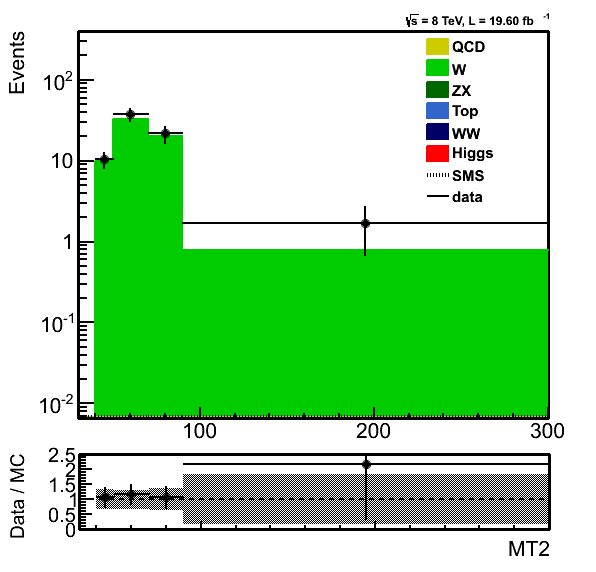
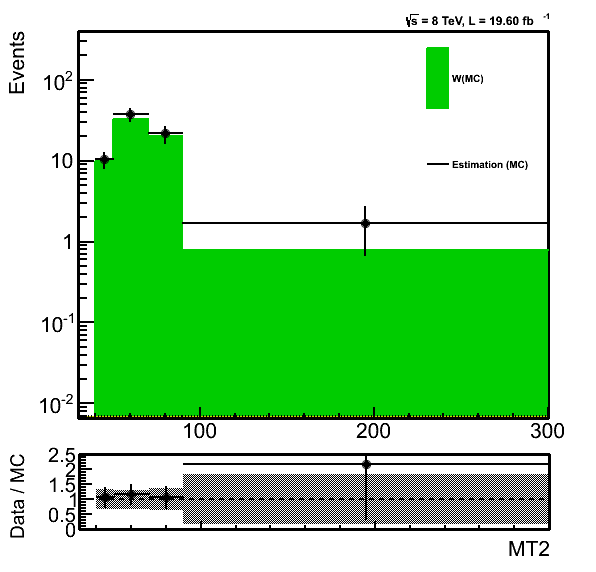
Legend of Closure fixed.

Changed region(s): [[0.6946, 0.0594, 0.8758, 0.3566]]

diff --git a/notes/SUS-14-022/trunk/Introduction.tex b/notes/SUS-14-022/trunk/Introduction.tex
@@ -2,23 +2,24 @@
 \label{sect:introduction}
 
 Supersymmetry \cite{Martin:1997ns} (SUSY) is one of the most promising extensions of the 
-standard model of the elementary particles (SM) which solves both the 
-quadratic divergencies and hierarchy problems, simultaneously. It introduces a new symmetry between the bosons and fermions and 
-for every particle an sparticle is defined which is exactly the same, but differs in spin by 1/2. 
+standard model of the elementary particles (SM) which solves the 
+quadratic divergences in the corrections to the mass of the Higgs boson from the fermions by introducing the new
+bosons with proper couplings. The newly defined particles can fill the scales between the electroweak scale and 
+the upper limit of the validity of SM and solve the  hierarchy problems, simultaneously. 
+It introduces a new symmetry between the bosons and fermions and 
+for every particle a sparticle is defined which is exactly the same, but differs in spin by 1/2. 
 %Since the super particles are not discovered yet, the supersymmetry should be a broken symmetry. 
 %Various mechanisms are introduced to break the symmetry softly without changing the other interesting features of the theory.
 Extensive searches at the CERN LHC have pushed the mass of the colored SUSY particles much beyond the previous expectations \cite{susyPhyRes}. 
-Looking for the electroweak production of sparticles is therefore well motivated to not miss possible SUSY signals in a corner. 
+Looking for the electroweak production of sparticles which has less hadronic activity and a comparable cross section is therefore well motivated.
+% to not miss possible SUSY signals in a corner. 
 
-
-A search for new physics using the full 2012 data is documented in this note. 
-Although the search is sensitive to any high scale 
-new physics with a missing transverse energy (\MET), an R-parity conserving Simplified SUSY model \cite{Alwall:2008ag,alves:sms} is used 
-to illustrate the performance of the method.
-
+A search for new physics using the full 2012 data is documented in this paper. 
 The electroweak production of the SUSY particles with the leptonic final state was studied previously \cite{Khachatryan:2014qwa}.
+In most of the SUSY models \cite{Martin:1997ns}, the third generation of the fermions are lighter than the two other generations. 
 In the current analysis, due to the special role of the third generation of the sparticles, events with two $\tau$ leptons in the final state 
-accompanied by \MET are considered.
+accompanied by a missing transverse energy (\MET) are considered. 
+Tha ATLAS experiment has already published the results for a search for SUSY in di-$\tau$ final states \cite{Aad:2014yka}.
 The two $\tau$ leptons can be generated in the cascade of the \sTau's or \PSGcpDo's:
 \begin{linenomath}
 \begin{equation}
@@ -46,19 +47,25 @@ Figure \ref{fig:Productions} shows the main processes that can generate our favo
 \caption{Schematic production of double tau from chargino pair and stau pair.}
 \label{fig:Productions}
 \end{figure}
-The production cross section of $\PSGcpDo\PSGcmDo$ is more than one order of magnitude higher than the
-production cross section of \sTau\sTau in the same mass of \sTau and \PSGcpDo.  
-For example for a 150 \GeV \sTau or \PSGcpDo, the cross section 
-of the pair production is 27 $fb$ and 1170 $fb$, respectively. Due to the higher cross section, through this note 
-we focus on the $\PSGcpDo\PSGcmDo$ production. 
+%The production cross section of $\PSGcpDo\PSGcmDo$ is more than one order of magnitude higher than the
+%production cross section of \sTau\sTau in the same mass of \sTau and \PSGcpDo.  
+%For example for a 150 \GeV \sTau or \PSGcpDo, the cross section 
+%of the pair production is 27 $fb$ and 1170 $fb$, respectively. Due to the higher cross section, 
+Through this paper we focus on the $\PSGcpDo\PSGcmDo$ production. 
+Although the search is sensitive to any high scale 
+new physics with \MET, an R-parity conserving Simplified SUSY Model \cite{Alwall:2008ag,alves:sms} is used 
+%to illustrate the performance of the method.
+to interpret the results of the search.
 
 %In the context of MSSM, supersymmetric objects are produced in pairs to conserve R-parity quantum number. Therefore in the production of charginos from proton-proton collisions, one may consider the following interaction $$pp\rightarrow\PSGcpDo\PSGcmDo\rightarrow\sTau^{+}\nu_\tau \sTau^{-}\nu_\tau\rightarrow\tau^{+}\PSGczDo\nu_\tau\tau^{-}\PSGczDo\nu_\tau\rightarrow\tau^{+}\tau^{-} + 2\,\PSGczDo + 2\,\nu_\tau.$$ In the detector, what can be observed are only 2 tau leptons plus missing transverse energy from the presence of neturinos and neutralinos in the final state.\\ 
-The $\tau$ leptons decay leptonically ($e$ or $\mu$), in 35\% of the time, or decay via hadrons, which occurs in 65\% of the cases. Since there are two tau leptons in the final state, the probability of having $\PSGcpDo\PSGcmDo \rightarrow \hadtau+e/\mu+\MET$ is about 46\%, while the probability for $\PSGcpDo\PSGcmDo \rightarrow \hadtau+\hadtau+\MET$ to occur is about 42\%. Hereafter, final states containing a lepton are referred to as $\leptonTau$ channel and those events where the two taus decay via hadrons are referred to as $\tauTau$. 
+The $\tau$ leptons decay leptonically ($e$ or $\mu$), in 35\% of the time, or decay via hadrons, which occurs in 65\% of the cases. Since there are two tau leptons in the final state, the probability of having $\PSGcpDo\PSGcmDo \rightarrow \hadtau+e/\mu+\MET$ is about 46\%, while the probability for $\PSGcpDo\PSGcmDo \rightarrow \hadtau+\hadtau+\MET$ to occur is about 42\%. Hereafter, final states containing a lepton are referred to as $\leptonTau$ channel and those events where the two taus decay via hadrons are referred to as $\tauTau$ channel. 
 %The selection cuts to enhance $\tauTau$ events will be discussed in Section~\ref{sect:tauTauCuts}. The list of cuts to select $\leptonTau$ events can be found in Section~\ref{sect:leptonTauCuts}.\\     
 
-The search variable is the stransverse mass (\mttwo) which is the natural extension of the known transverse mass (\mt) to a case 
-when two massive particles with equal mass are created in pairs and decay via a chain of jets and leptons to two 
-invisible particles, similar to our case.
+The search variable is the stransverse mass (\mttwo, section \ref{sect:mt2def}) 
+which is the natural extension of the known transverse mass (\mt) to a case 
+when two massive particles with equal mass are created in pairs and decay 
+%via a chain of jets and leptons 
+to two invisible particles accompanied by jets and leptons, similar to our case.
 %In the case of R-parity conserving SUSY, the Lightest Supersymmetric Particle (LSP), \PSGczDo in our scenario, 
 %escapes  detection and appears as \MET.
 
@@ -67,11 +74,12 @@ compared to the SM particles. Hence, SUSY should appear as an excess in the tail
 It was shown previously \cite{Khachatryan:2014qwa} and \cite{Chatrchyan:2012jx}    that \mttwo is a powerful variable to search for SUSY in both
  leptonic and hadronic final states.
 
-%The current note is organized as follows, after introduction in the next section the \mttwo variable is introduced. Different datasets 
-%and objects used in this analysis are discussed in sections \ref{sect:dataMC} and \ref{sect:objdef}. The events selections for different channels
-%are shown in section \ref{sect:cuts}. A detailed study of the SM backgrounds is presented in section \ref{sect:bkg}. Section \ref{sect:sys} 
-%is devoted to evaluation of the systematic uncertainties. The final numbers and their statistical interpretation is presented in 
-%section \ref{sect:stat} and finally section \ref{sect:conclusion} concludes the note.
+The current paper is organized as follows, after introduction in the next section the CMS experiment  
+and objects used in this analysis are introduced. The \mttwo variable is introduced in sections \ref{sect:mt2def}. 
+The events selections for different channels are shown in sections \ref{sect:tauTauCuts} and \ref{sect:eleTauCuts}. 
+A detailed study of the SM backgrounds is presented in section \ref{sect:bkgLepTau}. Section \ref{sect:sys} 
+is devoted to evaluation of the systematic uncertainties. The final numbers and their statistical interpretation is presented in 
+section \ref{sect:stat} and finally section \ref{sect:conclusion} concludes the paper.
 
 
 

diff --git a/notes/SUS-14-022/trunk/SUS-14-022.tex b/notes/SUS-14-022/trunk/SUS-14-022.tex
@@ -21,7 +21,7 @@
 %%%%%%%%%%%%%%%  Title page %%%%%%%%%%%%%%%%%%%%%%%%
 \cmsNoteHeader{SUS-14-022} % This is over-written in the CMS environment: useful as preprint no. for export versions
 % >> Title: please make sure that the non-TeX equivalent is in PDFTitle below
-\title{Search for electroweak production of charginos in di-tau final states}
+\title{Search for electroweak production of charginos in di-$\tau$ final states in pp collisions at sqrt(s)= 8 TeV with the CMS detector}
 
 % >> Authors
 %Author is always "The CMS Collaboration" for PAS and papers, so author, etc, below will be ignored in those cases
@@ -45,16 +45,21 @@
 % 2. **DO NOT use %**                  to comment out sections of the abstract: the extractor will still grab those lines (and they won't be comments any longer!).
 % 3. For PASs: **DO NOT use tex macros**         in the abstract: CDS MathJax processor used on the abstract doesn't understand them _and_ will only look within $$. The abstracts for papers are hand formatted so macros are okay.
 \abstract{
- A search for electroweak production of SUSY is performed when two $\tau$ leptons and invisible particles are 
- produced in the final state. At least one of the $\tau$ leptons is required to decay hadronically.
+ A search for electroweak production of supersymmetry is performed 
+with two  $\tau$ leptons in the final state
+%when two $\tau$ leptons and invisible particles are produced in the final state. 
+ At least one of the $\tau$ leptons is required to decay hadronically.
  Different channels use 18.1 to 19.6  \fbinv  of proton-proton collisions at $\sqrt{s}$ = 8\,TeV.
- The $M_{\rm T2}$ variable is used as a search variable to distinguish between signal and background. 
- In a special part of the phase space, moderate $M_{\rm T2}$, the sum of the transverse  
- mass of the two $\tau$ leptons is found to be a useful variable. In different bins of the search, 
+% The $M_{\rm T2}$ variable is used as a search variable to distinguish between signal and background. 
+% In a special part of the phase space, moderate $M_{\rm T2}$, the sum of the transverse  
+% mass of the two $\tau$ leptons is found to be a useful variable. 
+Both $M_{\rm T2}$  variable and the sum of the transverse mass of the two tau leptons
+are used as search variables. 
+In different signal regions, 
  no significant excess is seen with respect to the standard model prediction, so 
  upper limits are set on the masses of the lightest chargino and neutralino.
  In the context of the simplified models, charginos lighter than XXX and neutralino masses below YYYY
- are excluded in the 95\% confidence level.
+ are excluded at 95\% confidence level.
 }    
 
 % >> PDF Metadata
@@ -65,7 +70,7 @@
 % (3) No curly braces {}.
 \hypersetup{%
 pdfauthor={IPM TauTau Group},%
-pdftitle={Search for electroweak production of charginos in di-tau final states},%
+pdftitle={Search for electroweak production of charginos in di-tau final states in pp collisions at sqrt(s)= 8 TeV with the CMS detector},%
 pdfsubject={CMS},%
 pdfkeywords={CMS, physics, software, computing}}
 
@@ -78,8 +83,8 @@ pdfkeywords={CMS, physics, software, computing}}
 %% The latter works for you, but our parser looks for the braces and will break when uploading the document.
 %%%%%%%%%%%%%%%
 \input{Introduction}
-\input{MT2Definition}
 \input{CMSRec}
+\input{MT2Definition}
 \input{SelectionTauTau}
 \input{SelectionLepTau}
 \input{Backgrounds}

diff --git a/notes/AN-14-275/trunk/FakeRateMuTau/Estimation_pfWJets_ExtraLepExcl_SameSignWeightedHiggs.C b/notes/AN-14-275/trunk/FakeRateMuTau/Estimation_pfWJets_ExtraLepExcl_SameSignWeightedHiggs.C
@@ -383,33 +383,33 @@ tex->SetNDC();
    leg->SetLineWidth(2);
    leg->SetFillColor(0);
    leg->SetFillStyle(1001);
-   TLegendEntry *entry=leg->AddEntry("MT2_QCD","QCD","f");
+ //   TLegendEntry *entry=leg->AddEntry("MT2_QCD","QCD","f");
 
-   ci = TColor::GetColor("#cccc00");
+//    ci = TColor::GetColor("#cccc00");
+//    entry->SetFillColor(ci);
+//    entry->SetFillStyle(1001);
+
+//    ci = TColor::GetColor("#cccc00");
+//    entry->SetLineColor(ci);
+//    entry->SetLineStyle(1);
+//    entry->SetLineWidth(2);
+//    entry->SetMarkerColor(1);
+//    entry->SetMarkerStyle(21);
+//    entry->SetMarkerSize(1);
+    TLegendEntry *entry=leg->AddEntry("MT2_W","W(MC)","f");
+
+   ci = TColor::GetColor("#00cc00");
    entry->SetFillColor(ci);
    entry->SetFillStyle(1001);
 
-   ci = TColor::GetColor("#cccc00");
+   ci = TColor::GetColor("#00cc00");
    entry->SetLineColor(ci);
    entry->SetLineStyle(1);
    entry->SetLineWidth(2);
    entry->SetMarkerColor(1);
    entry->SetMarkerStyle(21);
    entry->SetMarkerSize(1);
-   entry=leg->AddEntry("MT2_W","W","f");
-
-   ci = TColor::GetColor("#00cc00");
-   entry->SetFillColor(ci);
-   entry->SetFillStyle(1001);
-
-   ci = TColor::GetColor("#00cc00");
-   entry->SetLineColor(ci);
-   entry->SetLineStyle(1);
-   entry->SetLineWidth(2);
-   entry->SetMarkerColor(1);
-   entry->SetMarkerStyle(21);
-   entry->SetMarkerSize(1);
-   entry=leg->AddEntry("MT2_ZX","ZX","f");
+//    entry=leg->AddEntry("MT2_ZX","ZX","f");
 
    ci = TColor::GetColor("#006600");
    entry->SetFillColor(ci);
@@ -422,7 +422,7 @@ tex->SetNDC();
    entry->SetMarkerColor(1);
    entry->SetMarkerStyle(21);
    entry->SetMarkerSize(1);
-   entry=leg->AddEntry("MT2_Top","Top","f");
+//    entry=leg->AddEntry("MT2_Top","Top","f");
 
    ci = TColor::GetColor("#3366cc");
    entry->SetFillColor(ci);
@@ -435,7 +435,7 @@ tex->SetNDC();
    entry->SetMarkerColor(1);
    entry->SetMarkerStyle(21);
    entry->SetMarkerSize(1);
-   entry=leg->AddEntry("MT2_WW","WW","f");
+//    entry=leg->AddEntry("MT2_WW","WW","f");
 
    ci = TColor::GetColor("#000066");
    entry->SetFillColor(ci);
@@ -448,7 +448,7 @@ tex->SetNDC();
    entry->SetMarkerColor(1);
    entry->SetMarkerStyle(21);
    entry->SetMarkerSize(1);
-   entry=leg->AddEntry("MT2_Higgs","Higgs","f");
+//    entry=leg->AddEntry("MT2_Higgs","Higgs","f");
 
    ci = TColor::GetColor("#ff0000");
    entry->SetFillColor(ci);
@@ -461,14 +461,14 @@ tex->SetNDC();
    entry->SetMarkerColor(1);
    entry->SetMarkerStyle(21);
    entry->SetMarkerSize(1);
-   entry=leg->AddEntry("MT2_susy","SMS","l");
+//    entry=leg->AddEntry("MT2_susy","SMS","l");
    entry->SetLineColor(1);
    entry->SetLineStyle(3);
    entry->SetLineWidth(4);
    entry->SetMarkerColor(1);
    entry->SetMarkerStyle(21);
    entry->SetMarkerSize(1);
-   entry=leg->AddEntry("MT2_data","data","l");
+   entry=leg->AddEntry("MT2_data","Estimation (MC)","l");
    entry->SetLineColor(1);
    entry->SetLineStyle(1);
    entry->SetLineWidth(2);

diff --git a/notes/SUS-14-022/trunk/MT2Definition.tex b/notes/SUS-14-022/trunk/MT2Definition.tex
@@ -1,6 +1,6 @@
 \section{\texorpdfstring{The definition of $\rm {\mttwo}$}{The definition of MT2}}
 \label{sect:mt2def}
-The $\mttwo$ variable~\cite{Lester:1999tx,Barr:2003rg} is used in this analysis to discriminate between the supersymmetry signal and the SM backgrounds as proposed in~\cite{Barr:2009wu}. However, the variable is originally introduced to measure the mass of primary pair-produced particles, decaying eventually to undetected particles (e.g. neutralino). Assuming the two primary supersymmetric particles undergo the same decay chain with visible and undetectable particles in the final state, the system can be described by the visible mass ($\mvisi$), transverse energy ($\etvisi$) and transverse momentum ($\vptvisi$) of each branch ($i=1,2$) together with missing transverse momentum ($\ptvecmiss$) which is shared between the two. The $\ptvecmiss$ is considered as the sum of the neutralinos transverse momenta, $\vec{p}_{\rm T}^{\PSGczDo(i)}$. For decay chains including SM neutrinos, the $\ptvecmiss$ gets some generally minor contributions from $\pt^{\nu}$'s.
+The $\mttwo$ variable~\cite{Lester:1999tx,Barr:2003rg} is used in this analysis to discriminate between the SUSY signal and the SM backgrounds as proposed in~\cite{Barr:2009wu}. The variable is originally introduced to measure the mass of primary pair-produced particles, decaying eventually to undetected particles (e.g. neutralino). Assuming the two primary supersymmetric particles undergo the same decay chain with visible and undetectable particles in the final state, the system can be described by the visible mass ($\mvisi$), transverse energy ($\etvisi$) and transverse momentum ($\vptvisi$) of each branch ($i=1,2$) together with missing transverse momentum ($\ptvecmiss$) which is shared between the two. The $\ptvecmiss$ is considered as the sum of the neutralinos transverse momenta, $\vec{p}_{\rm T}^{\PSGczDo(i)}$. For decay chains including SM neutrinos, the $\ptvecmiss$ gets some generally minor contributions from $\pt^{\nu}$'s.
 
 The transverse mass of each branch can be written as 
 \begin{linenomath}
